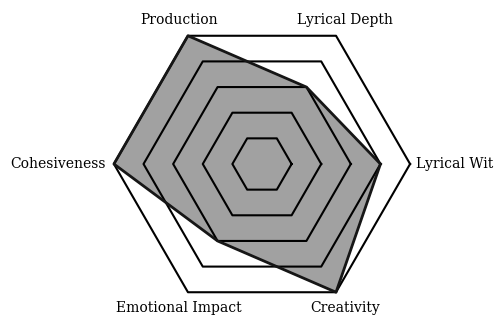
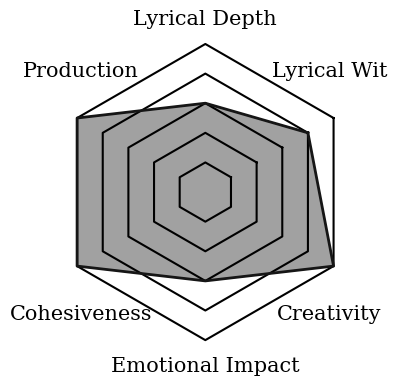
working, need to make csv

Changed region(s): [[0.0, 0.0, 0.9975, 0.9756]]

diff --git a/styles_at.css b/styles_at.css
@@ -6,15 +6,20 @@ body {
 
 .album-grid {
     display: grid;
-    grid-template-columns: repeat(auto-fit, minmax(150px, 1fr));
-    gap: 20px;
+    grid-template-columns: repeat(3, 1fr); /* Exactly 3 items per row */
+    gap: 50px;
     padding: 20px;
     justify-items: center;
 }
 
+.album-container {
+    margin: 0; /* Ensure no extra margin */
+    padding: 0; /* Ensure no extra padding */
+}
+
 .album-card {
-    width: 150px;
-    height: 150px;
+    width: 200px;
+    height: 200px;
     perspective: 1000px;
     cursor: pointer;
 }
@@ -52,58 +57,71 @@ body {
     width: 100%;
     height: 100%;
     object-fit: cover;
-    border-radius: 10px;
+    border: 2px solid black;
+    border-radius: 1px;
+    /* border-radius: 10px; */
 }
 
 .album-back {
-    background-color: #222;
+    background-color: black;
     color: white;
     transform: rotateY(180deg);
     display: flex;
     flex-direction: column;
     align-items: center;
-    padding: 10px;
-    border-radius: 10px;
+    padding: 0;
     text-align: center;
     height: 100%;
     position: relative;
 }
 
+.album-text{
+    width: 100%;
+    height: 100%;
+    text-align: center;
+    vertical-align: middle;
+    position: relative;
+    padding-top: 25%;
+}
 /* === Radar Plot Popout === */
 
 /* The radar tab is inside the drawer, so it moves with it */
 .radar-tab {
     position: absolute;
-    right: -20px; /* Aligns with the edge of the radar panel */
+    right: -20px;
     top: 50%;
-    transform: translateY(-50%) rotate(180deg);
-    background: #444;
-    color: white;
+    width: 50px;
+    background: white;
+    color: black;
+    border-color: black;
+    border: 2px;
     padding: 5px;
     font-size: 12px;
     cursor: pointer;
     writing-mode: vertical-rl;
-    border-radius: 5px 0 0 5px;
-    transition: transform 0.3s ease-in-out, right 0.3s ease-in-out;
-    z-index: -1;
+    border-radius: 0 5px 5px 0;
+    transition: transform 0.3s ease-in-out;
+    z-index: -2;
+    opacity: 0; /* Ensure it's always visible normally */
 }
 
 .radar-panel {
     position: absolute;
-    left: 0%;
-    top: 7.5%;
-    width: 100%;
-    height: 100%;
-    background: #333;
+    height: 90%;
+    width: 95%;
+    top: 5%;
+    left: 0%; 
+    background: white;
     display: flex;
     align-items: center;
-    justify-content: center;
-    opacity: 0; /* Fully hidden at start */
-    transition: transform 0.3s ease-in-out, opacity 0.3s ease-in-out;
+    justify-content: center; 
+    opacity: 1; /* Fully hidden at start */
+    transition: transform 0.3s ease-in-out;
     z-index: -1; /* Behind album */
-    border-radius: 10px;
+    border-radius: 0 10px 10px 0;
     pointer-events: none;
-
+    opacity: 0;
+    border: 1px solid black;
 }
 
 /* Hide radar panel while flipping */
@@ -112,25 +130,38 @@ body {
     pointer-events: none;
 }
 
+/* Hide radar-tab ONLY while flipping */
+.album-card.flipping .radar-tab {
+    opacity: 0;
+    pointer-events: none;
+}
+
+.radar-tab.flipped {
+    opacity: 1;
+    transition: all 0.3s ease-in-out;
+}
+
+.radar-panel.flipped {
+    opacity: 1;
+}
+
 /* The radar plot image inside the drawer */
 .radar-panel img {
-    width: 100px;
-    height: 100px;
-    /* display: none; Hidden until the tab is clicked */
+    position: absolute;
+    right: 0px;
+    width: 80%;
+    height: auto;
 }
 
 /* Moves the drawer into view when open */
 .radar-panel.open{
-    transform: translateX(125px);
-    display: flex;
-    opacity: 1;
-    /* z-index: 10; Bring in front */
+    transform: translateX(175px);
 }
 
-/* Show the radar plot image when open */
-.radar-panel.open img {
-    display: block;
+.radar-tab.open{
+    transform: translateX(175px);
 }
+
 
 
 .music-links {

diff --git a/script_at.js b/script_at.js
@@ -53,8 +53,10 @@ document.addEventListener("DOMContentLoaded", function () {
                 
                     if (!radarPanel.classList.contains("open")) {
                         radarPanel.classList.add("open");
+                        radarTab.classList.add("open");
                     } else {
                         radarPanel.classList.remove("open");
+                        radarTab.classList.remove("open");
                     }
                 });
 
@@ -75,12 +77,13 @@ document.addEventListener("DOMContentLoaded", function () {
                 `;
 
                 // Append elements
-                back.appendChild(radarTab);
 
                 inner.appendChild(front);
                 inner.appendChild(back);
                 card.appendChild(inner);
                 card.appendChild(radarPanel);  // ✅ Separate from album-back
+                card.appendChild(radarTab);
+
 
                 card.addEventListener("click", function () {
                     if (!card.classList.contains("flipping")) {
@@ -89,15 +92,24 @@ document.addEventListener("DOMContentLoaded", function () {
                         setTimeout(() => {
                             card.classList.toggle("flipped");
                             radarTab.classList.toggle("flipped");
+                            radarPanel.classList.toggle("flipped");
                         }, 10); // Small delay before flipping starts
+
+                        if (radarPanel.classList.contains("open")) {
+                            radarPanel.classList.remove("open");
+                            radarTab.classList.remove("open");
+                        }
+                        
                 
                         setTimeout(() => {
                             card.classList.remove("flipping"); // Remove class after animation ends
                             radarPanel.style.opacity = "1"; // Show radar panel after animation
+                            // radarTab.style.opacity = "1";
                         }, 600); // Adjust this time to match CSS flip animation duration
                 
                         // Hide radar panel while flipping
                         radarPanel.style.opacity = "0";
+                        // radarTab.style.opacity = "0";
                     }
                 });
 

diff --git a/alltime.html b/alltime.html
@@ -9,7 +9,7 @@
 <body>
 
     <h1>Album List</h1>
-    <div id="albumContainer" class="album-grid"></div>
+    <div id="albumContainer" class="album-grid"><div class="album-background"></div></div>
 
     <script src="script_at.js"></script>
 

diff --git a/update-albums.py b/update-albums.py
@@ -3,6 +3,7 @@ import numpy as np
 import matplotlib.pyplot as plt
 import json
 import os
+import random
 
 from PIL import Image
 
@@ -30,13 +31,14 @@ def generate_radar_plot(album_name, scores, cover_url):
 
     # Compute the angle for each category
     angles = np.linspace(0, 2 * np.pi, num_vars, endpoint=False).tolist()
-    scores += scores[:1]  # Close the radar shape
+    angles = [a + (np.pi / num_vars) for a in angles]  # Rotate so a point is at the bottom
     angles += angles[:1]  # Close the radar shape
+    scores += scores[:1]  # Close the radar shape
     
     avg_color = get_average_color(cover_url)
     fill_color = (avg_color[0] / 255, avg_color[1] / 255, avg_color[2] / 255, 0.4)  # RGBA with transparency
     line_color = (avg_color[0] / 255, avg_color[1] / 255, avg_color[2] / 255, 1)  # Full opacity for lines
-
+            
     # Create figure
     fig, ax = plt.subplots(figsize=(4, 4), subplot_kw=dict(polar=True))
     
@@ -47,19 +49,20 @@ def generate_radar_plot(album_name, scores, cover_url):
         
     ax.fill(angles, scores, color=fill_color)  # Fill with transparency
     ax.plot(angles, scores, color=line_color, linewidth=2)  # Outline
-
+    
+    for index, angle in enumerate(angles):
+        if 0 < angle < 1:
+            angles[index] = angle + .25
+        elif 2 < angle < 3:
+            angles[index] = angle - .25 
+        elif 3 < angle < 4:
+            angles[index] = angle + .25
+        elif 5 < angle < 6:
+            angles[index] = angle - .25
     # Labels
     ax.set_xticks(angles[:-1])
-    ax.set_xticklabels(CATEGORIES, fontsize=8, fontdict={'fontsize': 10, 'fontweight': 'normal', 'family': 'serif'})
-    # Move labels outward
-    print(angles)
-    for label, angle in zip(ax.get_xticklabels(), angles[:-1]):
-        if (angle > 3 and angle < 4):
-            label.set_y(label.get_position()[1] - .2)  # Move slightly out
-        elif angle == 0:
-            label.set_y(label.get_position()[1] - .125)  # Move slightly out
-        else:
-            label.set_y(label.get_position()[1] + .05)  # Move slightly down
+    ax.set_xticklabels(CATEGORIES, fontsize=15, fontdict={'fontweight': 'normal', 'family': 'serif'})
+
 
     ax.set_yticklabels([])
     ax.spines["polar"].set_visible(False)  # Remove outer circle
@@ -68,6 +71,14 @@ def generate_radar_plot(album_name, scores, cover_url):
     # Save the figure
     safe_name = album_name.replace(" ", "_").replace("/", "_")  # Ensure safe filenames
     plot_path = f"radar_plots/{safe_name}.png"
+    
+    # Make figure background transparent
+    # fig.patch.set_alpha(0)
+    # ax.set_facecolor((1, 1, 1, 0))  # Set axes background to transparent
+
+    # Save the figure with a transparent background
+    # plt.savefig(plot_path, bbox_inches='tight', dpi=100, transparent=True)
+        
     plt.savefig(plot_path, bbox_inches='tight', dpi=100)
     plt.close()
     
@@ -96,6 +107,9 @@ for _, row in df.iterrows():
     album_info["Radar Plot"] = generate_radar_plot(row["Album Name"], scores, row["Cover URL"])
 
     albums_data.append(album_info)
+
+# Shuffle the order of albums_data before saving
+random.shuffle(albums_data)
 
 # Save JSON
 with open("albums.json", "w") as json_file:
